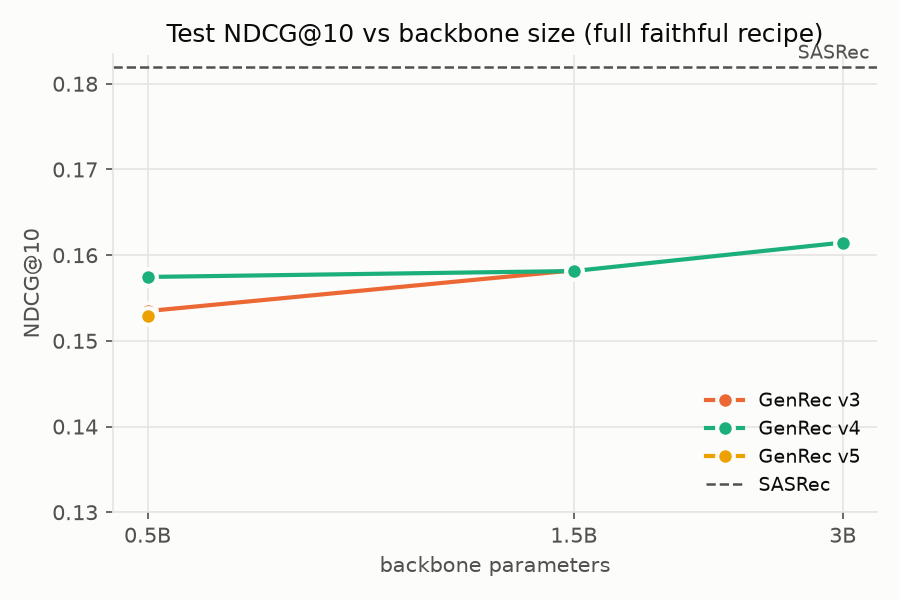
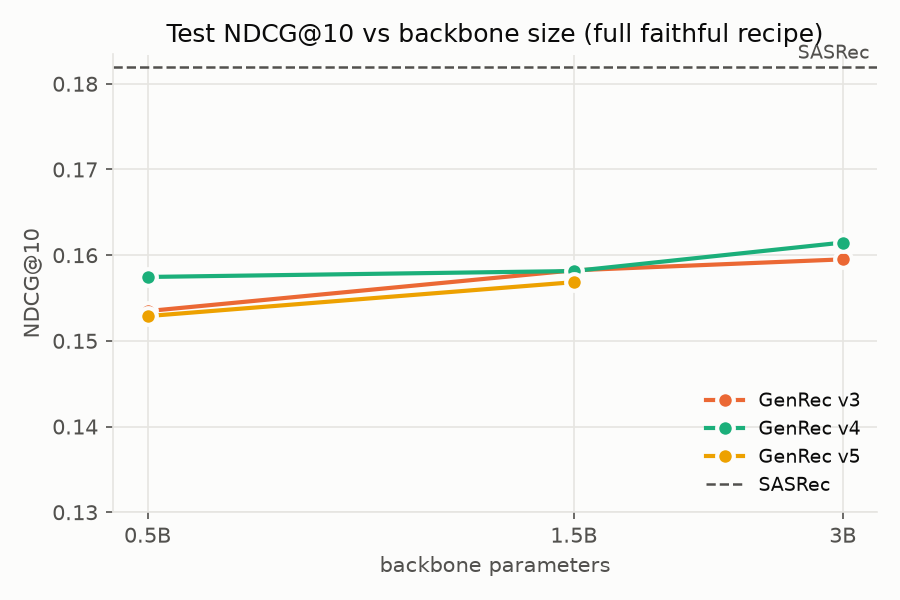
Add full-recipe results: 1.5B v5, 3B v3

Changed region(s): [[0.1867, 0.48, 0.56, 0.54], [0.6844, 0.42, 0.9644, 0.45], [0.56, 0.45, 0.6533, 0.48]]

diff --git a/docs/plan.md b/docs/plan.md
@@ -65,7 +65,7 @@ runs/      # (gitignored) <model>_<time>/log.txt, metrics.json, history.csv, *.p
 | 2 | Baselines: Popularity, SASRec (tuned) | ✅ SASRec 0.1820 |
 | 3 | GenRec pipeline + training stability (warmup, clip) | ✅ |
 | 4 | Development ablations: prompts, LM loss, rating weights, epochs | ✅ (history length ⏳ #29) |
-| 5 | Full-recipe grid (★): v3/v4/v5 × 0.5B/1.5B/3B + 7B v4 | 🔄 6/10 done; #26–28 running/queued (~3 days Local) |
+| 5 | Full-recipe grid (★): v3/v4/v5 × 0.5B/1.5B/3B + 7B v4 | 🔄 8/10 done; #28 running (~1 day Local), 7B pending |
 | 6 | README: results + reproduce | ⬜ |
 
 ## Runs
@@ -96,9 +96,9 @@ runs/      # (gitignored) <model>_<time>/log.txt, metrics.json, history.csv, *.p
 | 23 | ★ 0.5B v3 + LM loss | ✅ | Local | 3.6 h | $0 | 0.1535 |
 | 24 | ★ 0.5B v5 + LM loss | ✅ | Local | 6.2 h | $0 | 0.1529 |
 | 25 | ★ 1.5B v3 + LM loss | ✅ | Local | 11.8 h | $0 | 0.1582 |
-| 26 | ★ 1.5B v5 + LM loss | 🔄 running | Local | ~17 h | $0 | – |
-| 27 | ★ 3B v3 + LM loss | ⏳ queued | Local | ~24 h | $0 | – |
-| 28 | ★ 3B v5 + LM loss | ⏳ queued | Local | ~35 h | $0 | – |
+| 26 | ★ 1.5B v5 + LM loss | ✅ | Local | 17.1 h | $0 | 0.1569 |
+| 27 | ★ 3B v3 + LM loss | ✅ | Local | 24.0 h | $0 | 0.1595 |
+| 28 | ★ 3B v5 + LM loss | 🔄 running | Local | ~35 h | $0 | – |
 | 29 | 0.5B v4 + LM loss, history 50 (ablation vs #19) | ⏳ queued | Local | ~11 h | $0 | – |
 
 ★ = full faithful recipe (LM loss, 3 epochs; prompt v3/v4/v5) → reported in results.md. All other GenRec runs are development runs/ablations, kept here only.
@@ -116,8 +116,8 @@ runs/      # (gitignored) <model>_<time>/log.txt, metrics.json, history.csv, *.p
 | Size \ prompt | v3 | v4 | v5 |
 |---|---|---|---|
 | 0.5B | 0.1535 (#23) | 0.1575 (#19) | 0.1529 (#24) |
-| 1.5B | 0.1582 (#25) | 0.1581 (#21) | #26 |
-| 3B | #27 | 0.1615 (#20) | #28 |
+| 1.5B | 0.1582 (#25) | 0.1581 (#21) | 0.1569 (#26) |
+| 3B | 0.1595 (#27) | 0.1615 (#20) | #28 |
 | 7B | – | #22 | – |
 
 ### Development grid (ranking-only, no LM loss; test NDCG@10, 3 ep)

diff --git a/docs/results.md b/docs/results.md
@@ -8,8 +8,8 @@ All GenRec numbers use the **full faithful recipe**: LM loss β=0.1, 3 epochs, p
 | Size \ prompt | v3 (+genres) | v4 (+user profile) | v5 (+synopsis) |
 |---|---|---|---|
 | 0.5B | 0.1535 | 0.1575 | 0.1529 |
-| 1.5B | 0.1582 | 0.1581 | 🔄 |
-| 3B | ⏳ | **0.1615** | ⏳ |
+| 1.5B | 0.1582 | 0.1581 | 0.1569 |
+| 3B | 0.1595 | **0.1615** | 🔄 |
 | 7B | – | ⬜ | – |
 
 Baselines: **SASRec (tuned) 0.1820**, Popularity 0.0180.
@@ -24,6 +24,8 @@ Baselines: **SASRec (tuned) 0.1820**, Popularity 0.0180.
 | GenRec 0.5B v5 | 0.1321 | 0.2675 | 0.1529 | −16% | 374.2 min | RTX 4060 Ti (Local) | $0 |
 | GenRec 1.5B v3 | 0.1371 | 0.2742 | 0.1582 | −13% | 708.0 min | RTX 4060 Ti (Local) | $0 |
 | GenRec 1.5B v4 | 0.1380 | 0.2714 | 0.1581 | −13% | 737.1 min | RTX 4060 Ti (Local) | $0 |
+| GenRec 1.5B v5 | 0.1359 | 0.2719 | 0.1569 | −14% | 1028.5 min | RTX 4060 Ti (Local) | $0 |
+| GenRec 3B v3 | 0.1396 | 0.2722 | 0.1595 | −12% | 1438.3 min | RTX 4060 Ti (Local) | $0 |
 | GenRec 3B v4 | 0.1404 | 0.2780 | 0.1615 | −11% | 1494.7 min | RTX 4060 Ti (Local) | $0 |
 
 ## Figures
